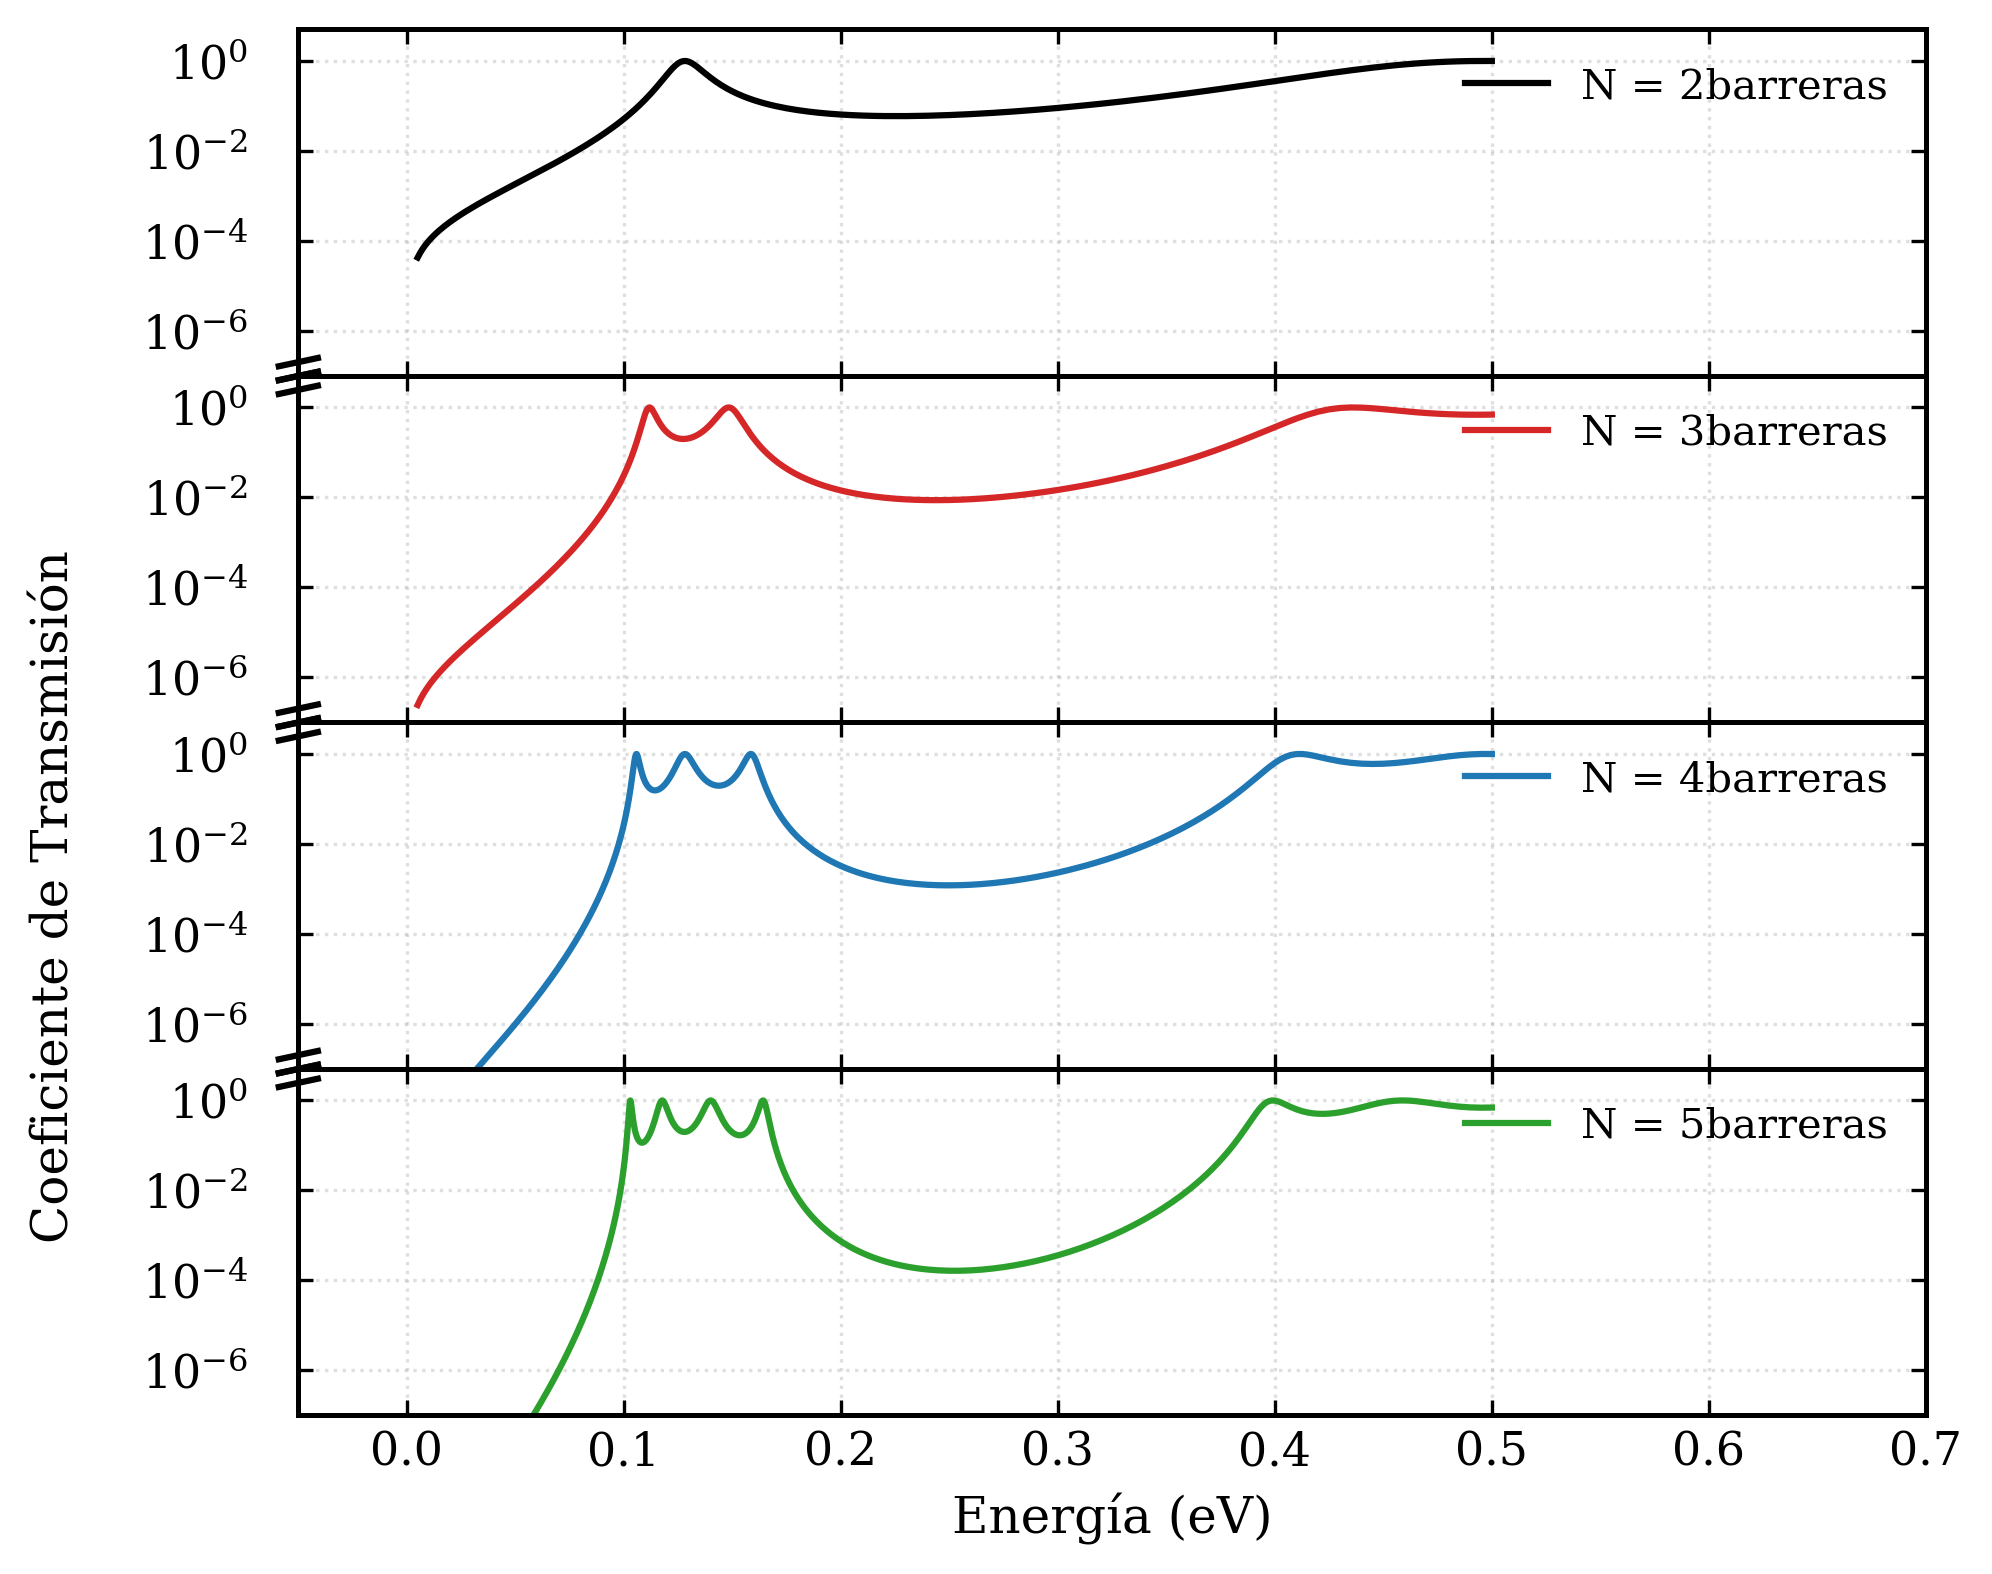
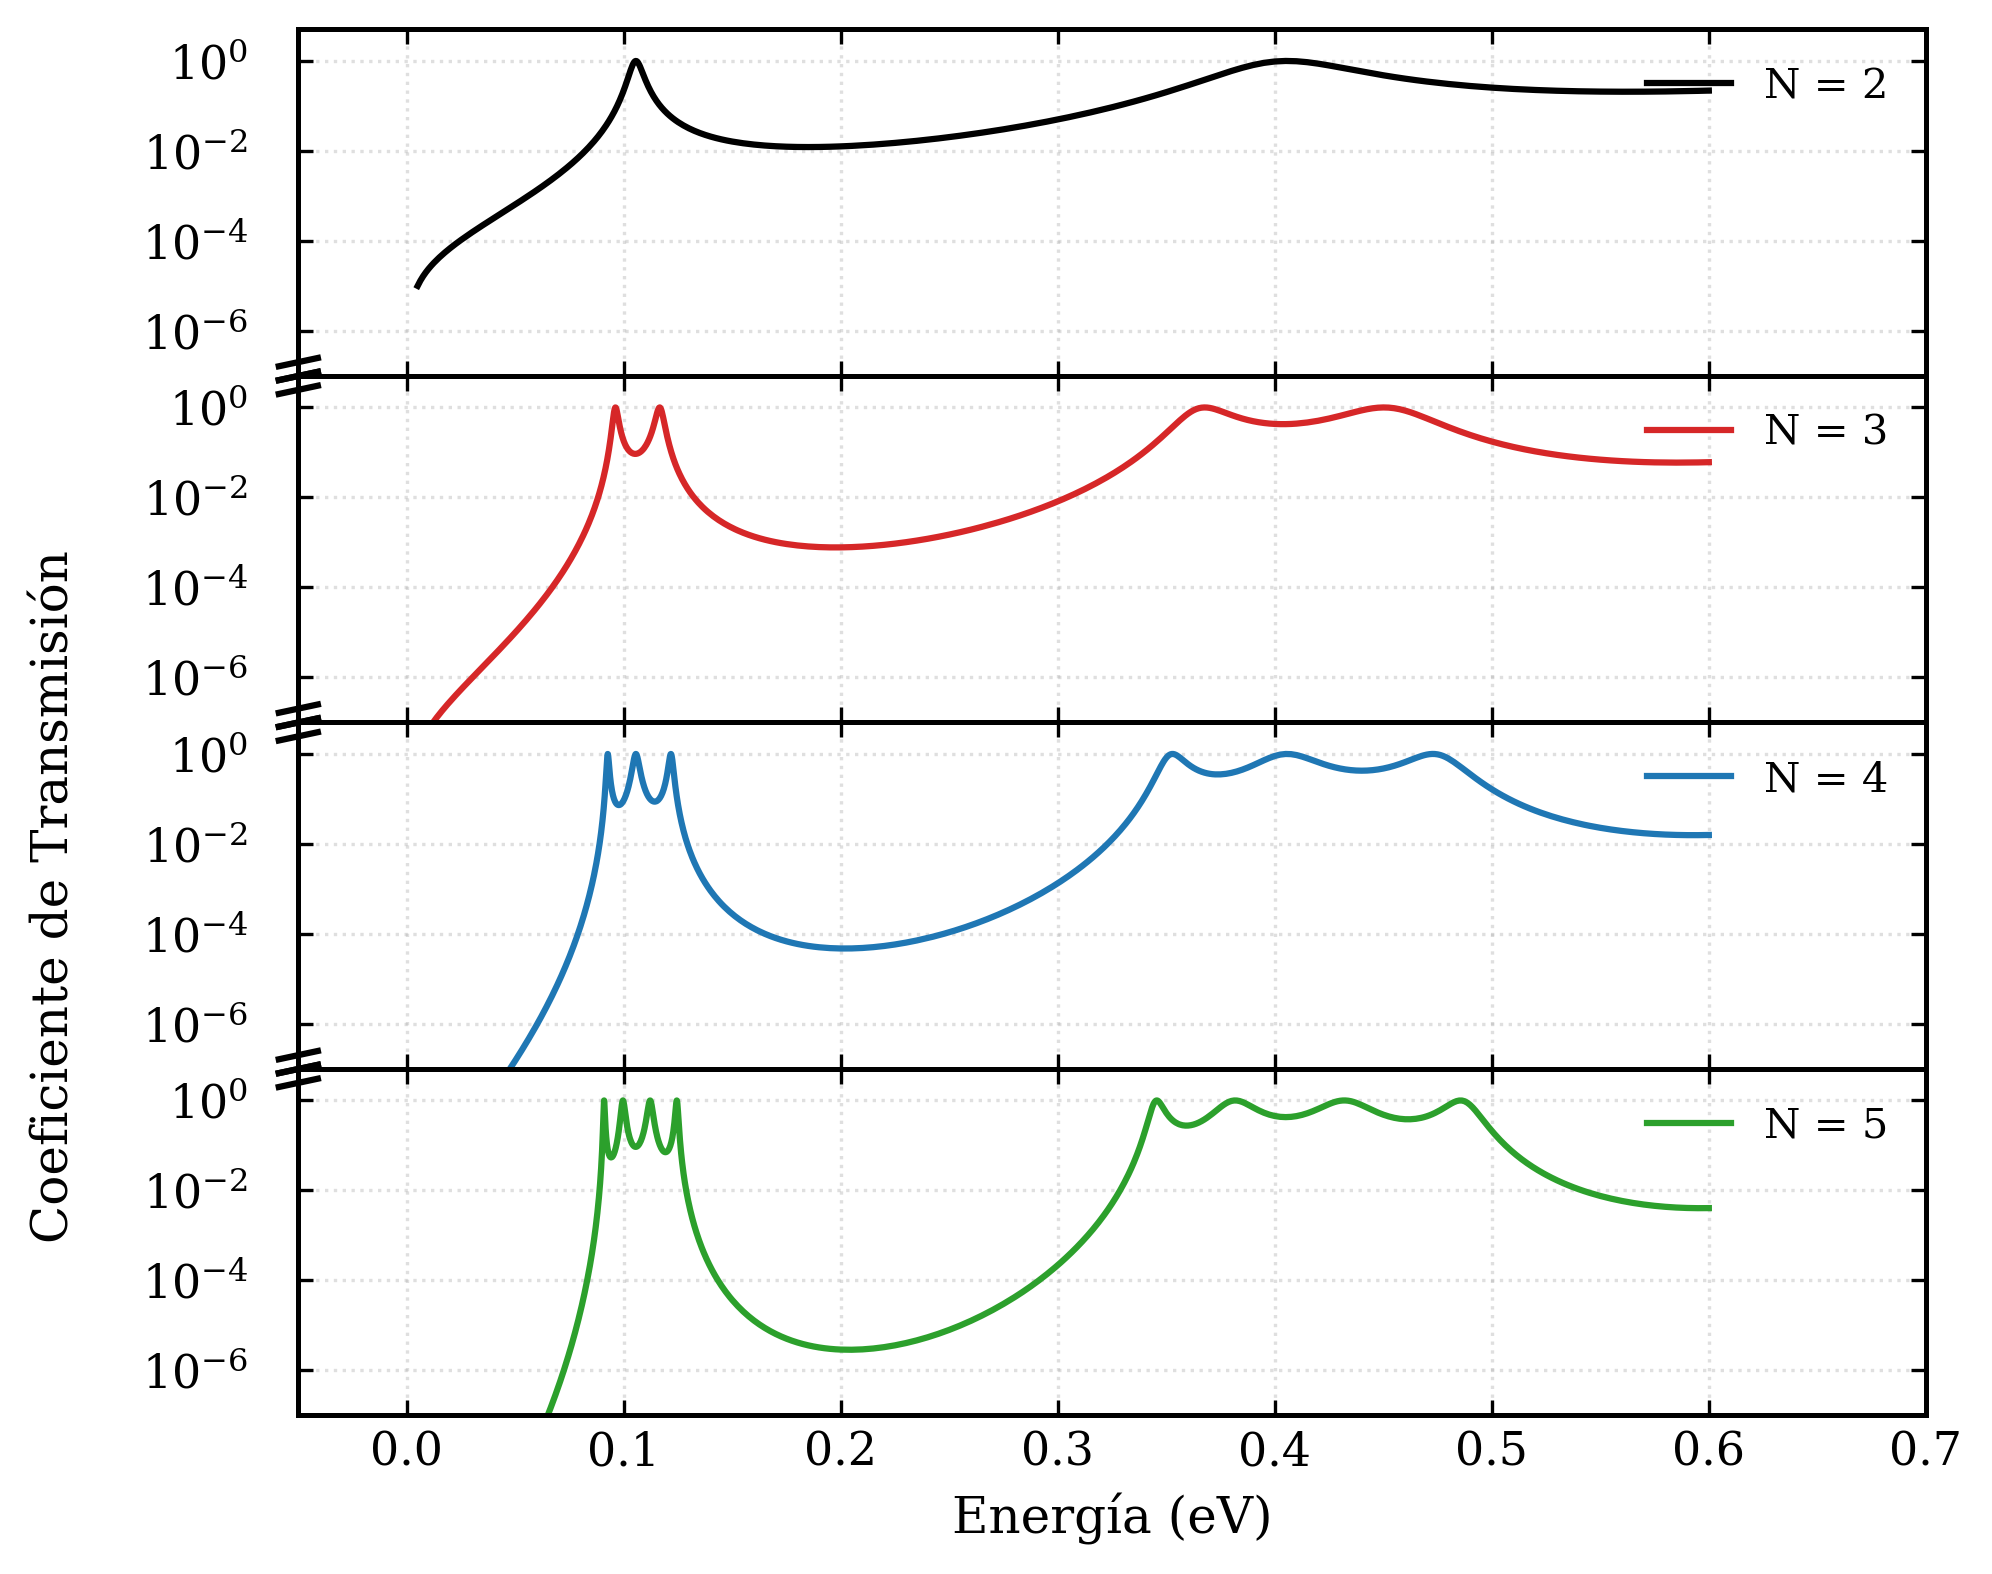
s

diff --git a/Informe.tex b/Informe.tex
@@ -137,7 +137,6 @@ Aplicando el teorema de Bloch a una celda periódica, la función de onda debe s
 Esta ecuación determina qué valores de energía están permitidos en la red. Como el miembro izquierdo cumple necesariamente \(-1\leq \cos(Ka)\leq 1\), las energías permitidas son aquellas para las que el valor absoluto del miembro derecho es menor o igual a 1. Sustituyendo los parámetros de nuestra simulación ($m^*=0.067m_e$, $L=5\,\mathrm{nm}$, $b=2\,\mathrm{nm}$, $V_0=0.5\,\mathrm{eV}$), el modelo predice analíticamente la aparición de bandas de energía permitidas que concuerdan fielmente con las amplias zonas de transmitancia $T \approx 1$ observadas en la simulación de $N=200$.
 
 La primera banda observada procede del estado fundamental del pozo, mientras que la segunda banda se asocia al segundo modo cuantizado permitido. Así, cada nivel ligado del pozo aislado evoluciona hacia una banda de conducción cuando el número de barreras aumenta significativamente.
-
 \subsection{Validación de la simulación frente al modelo de Tsu y Esaki (1973)}
 La configuración empleada en nuestro dispositivo ($L=5\text{ nm}$, $b=2\text{ nm}$, $V_0=0.5\text{ eV}$) es homóloga a la del estudio fundacional de R. Tsu y L. Esaki (1973) sobre transporte en redes finitas \cite{tsu_esaki1973}, cuyos resultados se muestran a continuación:
 \begin{figure}[H]
@@ -146,15 +145,30 @@ La configuración empleada en nuestro dispositivo ($L=5\text{ nm}$, $b=2\text{ n
   \caption{Resultados de Tsu y Esaki (\cite{tsu_esaki1973}) para una red de 5 barreras con parámetros similares a los nuestros.}
   \label{fig:TsuEsaki}
 \end{figure}
-Sin embargo, en nuestra simulación, las resonancias del estado fundamental y excitado aparecen desplazadas hacia energías mayores ($\approx 0.125\text{ eV}$ y $\approx 0.5\text{ eV}$) en comparación con los resultados de su artículo original ($\approx 0.1\text{ eV}$ y $\approx 0.32\text{ eV}$) para N=2. Esta discrepancia no constituye un error, sino una mejora sustancial en la precisión del cálculo por dos motivos físicos fundamentales \cite{tsu_resonant2011}:
+Sin embargo, en nuestra simulación, las resonancias del estado fundamental y excitado aparecen desplazadas hacia energías mayores en comparación con los resultados de su artículo original ($\approx 0.1\text{ eV}$ y $\approx 0.32\text{ eV}$) para N=2. Tras analizar los datos numéricos en crudo exportados de la simulación (\texttt{2.txt}), se observa con total precisión que estos picos de transmitancia máxima ($T \approx 1$) se localizan exactamente en $E_1 = 0.1056\text{ eV}$ y $E_2 = 0.405\text{ eV}$. Esta discrepancia frente al modelo histórico no constituye un error, sino una mejora sustancial en la precisión del cálculo por dos motivos físicos fundamentales \cite{tsu_resonant2011}:
 
 \begin{enumerate}
     \item \textbf{La masa efectiva ($m^*$):} En los primeros modelos teóricos de los años 70, se asumían valores de masa efectiva genéricos (típicamente $m^* \approx 0.1 m_e$) para simplificar los cálculos matriciales. En nuestro trabajo, el simulador utiliza el valor riguroso del Arseniuro de Galio ($m^* = 0.067 m_e$). Dado que la energía de los autoestados está inversamente relacionada con la masa ($E_n \propto 1/m^*$), una masa menor empuja los niveles de energía hacia arriba, justificando el desplazamiento de nuestras resonancias.
     \item \textbf{Condiciones de contorno de BenDaniel-Duke:} En su aproximación original, Tsu y Esaki omitieron la discontinuidad de la masa efectiva en la interfase pozo-barrera, exigiendo únicamente la continuidad de la función de onda $\psi$ y su derivada $\psi'$. En nuestra simulación, el método computacional de nanoHUB aplica rigurosamente las condiciones de contorno de BenDaniel-Duke, las cuales exigen que el flujo de probabilidad $\frac{1}{m^*}\nabla\psi$ sea continuo \cite{BenDaniel1966}. Este término extra altera el acoplamiento de la matriz de transferencia, corrigiendo la posición exacta de los picos y ofreciendo un resultado físicamente más estricto.
 \end{enumerate}
 
-Nótese que las energías resonantes para el caso de triple barrera se desdoblan en dobletes, y las del caso de cinco barreras se desdoblan en cuadrupletes. Las anchuras de línea están determinadas aproximadamente por la probabilidad de efecto túnel a través de la anchura de la barrera. Para $n$ barreras, se producirá un desdoblamiento en $(n-1)$ niveles. Para un $n$ grande, estas energías resonantes convergerán finalmente hacia el modelo de bandas que comentaremos posteriormente \cite{tsu_esaki1973}.
+Para consolidar la validez física de estos máximos, el canal abierto de doble barrera ($N=2$) puede describirse analíticamente mediante el modelo del interferómetro cuántico de Fabry-Pérot. El coeficiente de transmisión de flujo global $T$ se obtiene sumando las amplitudes de probabilidad de las múltiples reflexiones de la función de onda dentro de la cavidad, resultando en la expresión exacta:
+\begin{equation}
+T = \frac{T_L T_R}{(1 - \sqrt{R_L R_R})^2 + 4\sqrt{R_L R_R}\sin^2\left(\frac{\phi}{2}\right)}
+\end{equation}
+donde $T_{L,R}$ y $R_{L,R}$ son los coeficientes de transmisión y reflexión de las barreras izquierda y derecha, mientras que la fase total acumulada por la onda en un ciclo completo dentro del pozo viene dada por $\phi = 2kL + \rho_L + \rho_R$. En esta expresión, $k = \sqrt{2m^*E}/\hbar$ es el vector de onda espacial, y $\rho_L, \rho_R$ representan los desfases cuánticos introducidos al reflejarse en las barreras de espesor finito ($b=2\text{ nm}$). 
 
+Para estructuras simétricas ($T_L = T_R$, y por tanto $\rho_L = \rho_R \equiv \rho$), la condición para obtener un efecto túnel resonante perfecto ($T = 1$) exige la anulación del término oscilatorio en el denominador, lo que impone la regla de interferencia constructiva:
+\begin{equation}
+\phi = 2kL + 2\rho = 2n\pi \quad \text{con } n=1, 2\dots
+\end{equation}
+donde el desfase $\rho$ provocado por la penetración de la función de onda en los "muros" de espesor finito $b$ se define analíticamente como:
+\begin{equation}
+\rho = \arctan\left( \frac{2k\kappa}{\kappa^2 - k^2} \coth(\kappa b) \right)
+\end{equation}
+siendo $\kappa = \sqrt{2m^*(V_0-E)}/\hbar$ el factor de decaimiento en la región clásicamente prohibida. Resolviendo numéricamente este sistema de ecuaciones trascendentales para los parámetros de nuestro diseño ($m^* = 0.067m_e$, $L = 5\text{ nm}$, $b = 2\text{ nm}$, $V_0 = 0.5\text{ eV}$), el desfase adicional $\rho$ en las interfases compensa de manera exacta el término espacial $2kL$, prediciendo las energías de resonancia fundamental ($n=1$) y excitada ($n=2$) justamente en los valores de $0.1056\text{ eV}$ y $0.405\text{ eV}$ validados por el simulador.
+
+Nótese que las energías resonantes para el caso de triple barrera se desdoblan en dobletes, y las del caso de cinco barreras se desdoblan en cuadrupletes. Las anchuras de línea están determinadas aproximadamente por la probabilidad de efecto túnel a través de la anchura de la barrera. Para $n$ barreras, se producirá un desdoblamiento en $(n-1)$ niveles. Para un $n$ grande, estas energías resonantes convergerán finalmente hacia el modelo de bandas que comentaremos posteriormente \cite{tsu_esaki1973}.
 \subsection{Frustración estructural: El pozo unidimensional}
 Para el escenario de la alteración morfológica en la célula fúngica central, aunque la expresión exacta del pozo infinito no es aplicable cuantitativamente a una heteroestructura finita acoplada, la tendencia física se mantiene. 
 